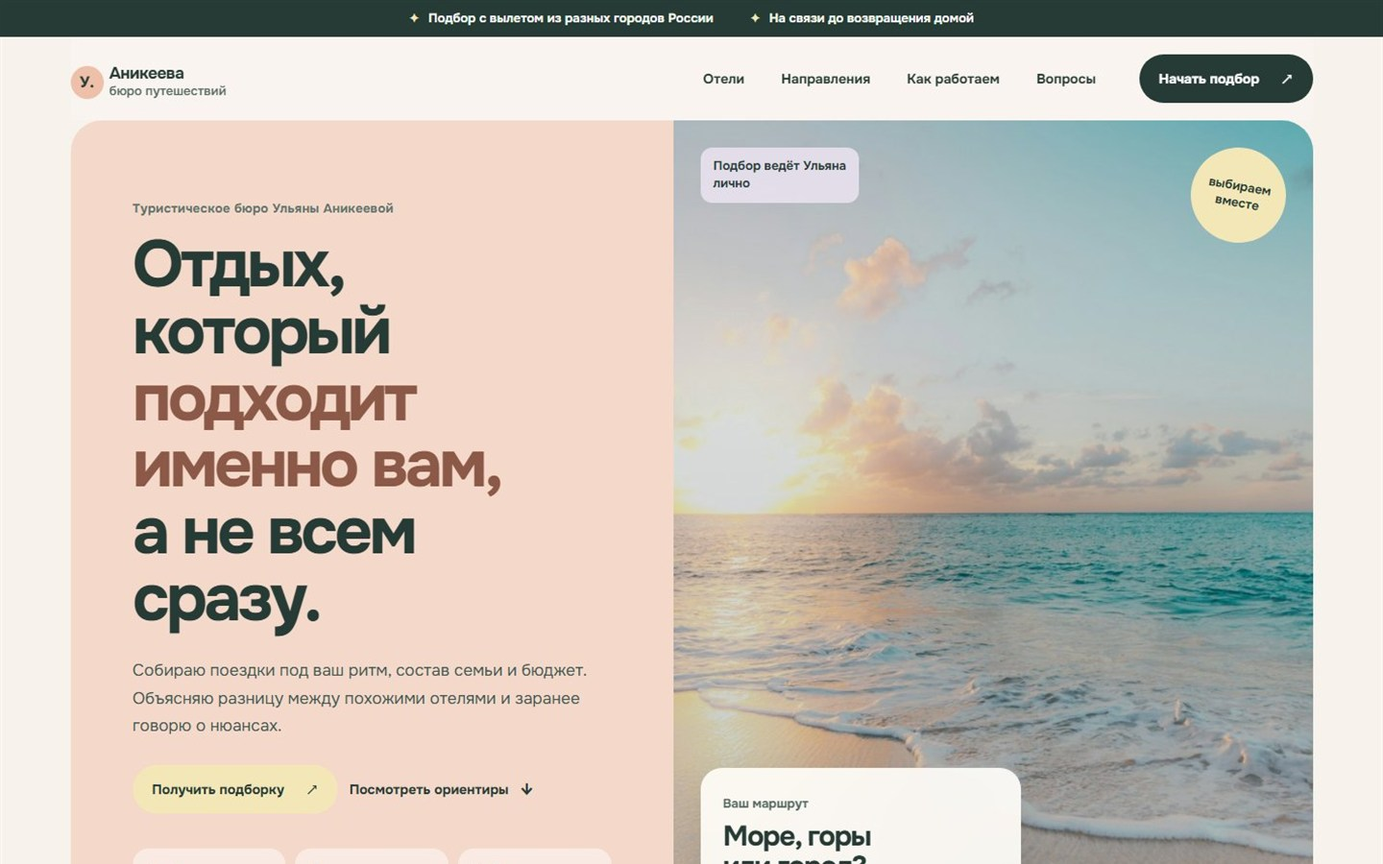
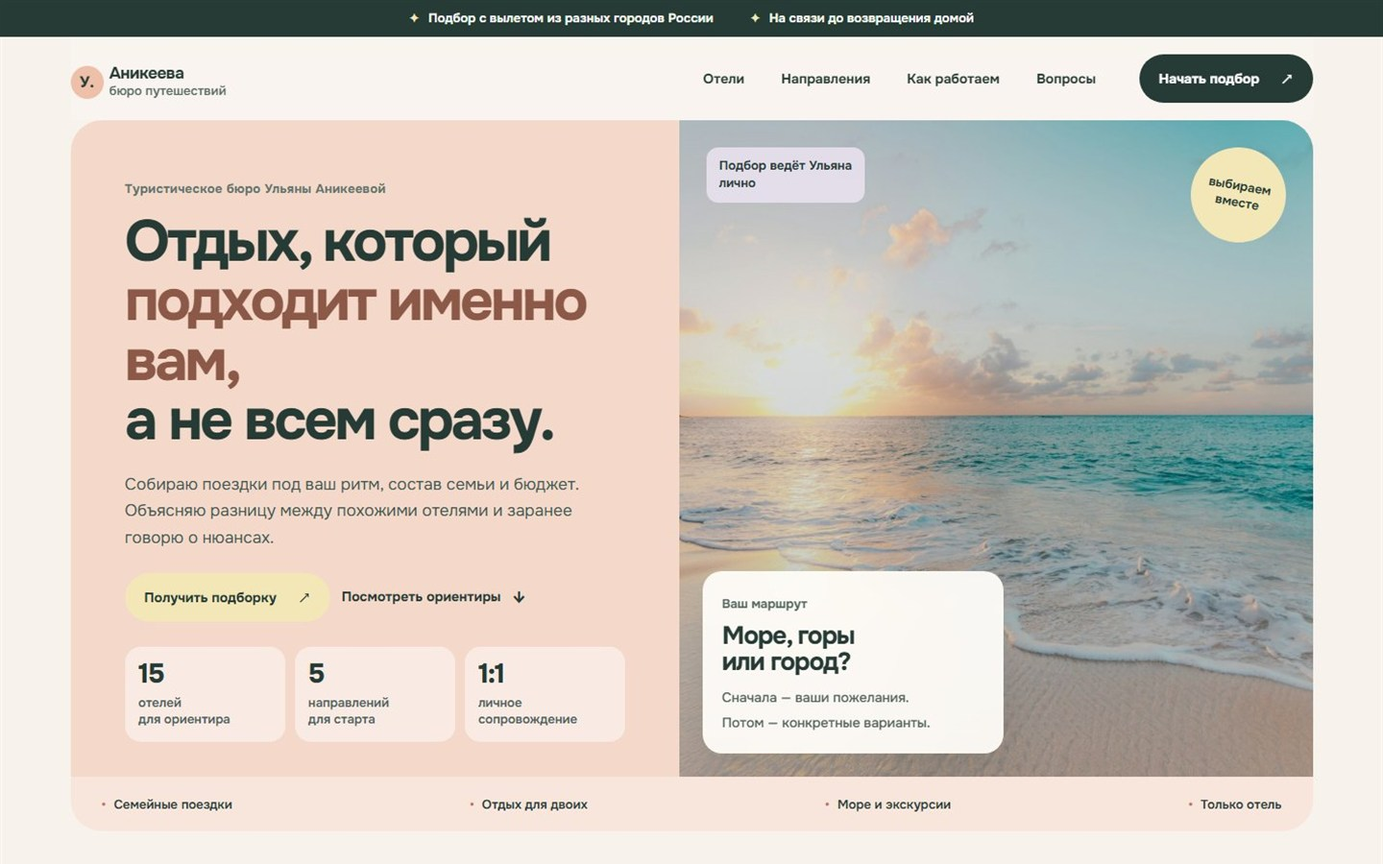
Tighten HotTour composition and card alignment

diff --git a/projects/hottour/readability.css b/projects/hottour/readability.css
@@ -60,50 +60,52 @@ body {
 .text-link { min-height: 48px; font-size: 14px; font-weight: 700; }
 .eyebrow { margin-bottom: 15px; font: 700 13px/1.4 var(--sans); letter-spacing: .02em; text-transform: none; }
 
-.hero { grid-template-columns: 1fr 1.06fr; grid-template-rows: auto 64px; border-radius: 32px; }
-.hero-copy { padding: clamp(54px, 6vw, 82px) clamp(34px, 4.5vw, 64px) 46px; }
-.hero h1 { max-width: 630px; font: 720 clamp(48px, 4.9vw, 68px)/1.01 var(--sans); letter-spacing: -.052em; }
+.hero { grid-template-columns: .98fr 1.02fr; grid-template-rows: auto 56px; border-radius: 32px; }
+.hero-copy { padding: clamp(44px, 4.8vw, 62px) clamp(32px, 4vw, 56px) 36px; }
+.hero h1 { max-width: 610px; font: 720 clamp(44px, 4.35vw, 60px)/1.02 var(--sans); letter-spacing: -.05em; }
 .hero h1 i { color: #8c5948; font-style: normal; font-weight: inherit; }
-.hero-lead { max-width: 560px; margin: 26px 0; color: #405650; font-size: 17px; line-height: 1.67; }
+.hero-lead { max-width: 560px; margin: 22px 0; color: #405650; font-size: 17px; line-height: 1.62; }
 .hero-actions { gap: 12px; }
-.hero-facts { max-width: 600px; margin-top: 36px; padding: 0; border: 0; gap: 10px; }
-.hero-facts div { min-width: 0; min-height: 94px; padding: 15px; border-radius: 16px; display: flex; flex-direction: column; gap: 9px; background: rgba(255,255,255,.48); }
+.hero-facts { max-width: 600px; margin-top: 26px; padding: 0; border: 0; gap: 10px; }
+.hero-facts div { min-width: 0; min-height: 82px; padding: 14px; border-radius: 16px; display: flex; flex-direction: column; gap: 7px; background: rgba(255,255,255,.48); }
 .hero-facts dt { font: 760 28px/1 var(--sans); letter-spacing: -.04em; }
 .hero-facts dd { margin: 0; color: #4d615b; font: 600 13px/1.38 var(--sans); text-transform: none; }
-.hero-media { min-height: 610px; }
-.hero-media figcaption { left: 28px; bottom: 28px; width: min(330px, calc(100% - 56px)); padding: 23px; border: 0; border-radius: 22px; background: rgba(255,253,249,.92); box-shadow: 0 18px 42px rgba(43,61,55,.18); }
+.hero-media { min-height: 0; }
+.hero-media figcaption { left: 24px; bottom: 24px; width: min(310px, calc(100% - 48px)); padding: 20px; border: 0; border-radius: 20px; background: rgba(255,253,249,.94); box-shadow: 0 18px 42px rgba(43,61,55,.18); }
 .hero-media figcaption span { font: 650 13px var(--sans); letter-spacing: 0; text-transform: none; }
-.hero-media figcaption b { margin: 8px 0 13px; font: 720 29px/1.05 var(--sans); letter-spacing: -.04em; }
+.hero-media figcaption b { margin: 7px 0 10px; font: 720 26px/1.05 var(--sans); letter-spacing: -.04em; }
 .hero-media figcaption small { font: 500 14px/1.55 var(--sans); }
 .hero-stamp { top: 28px; right: 28px; width: 98px; height: 98px; font: 650 13px/1.3 var(--sans); }
 .hero-note { top: 28px; left: 28px; padding: 10px 13px; font: 650 13px/1.42 var(--sans); text-transform: none; }
-.hero-foot { padding: 0 38px; border: 0; background: rgba(255,255,255,.34); font: 600 13px var(--sans); letter-spacing: 0; text-transform: none; }
+.hero-foot { padding: 0 32px; border: 0; background: rgba(255,255,255,.34); font: 600 13px var(--sans); letter-spacing: 0; text-transform: none; }
 
-.intro { padding: 82px 0 46px; grid-template-columns: minmax(170px,.55fr) 1.7fr; gap: clamp(34px,6vw,86px); }
+.intro { padding: 64px 0 34px; grid-template-columns: 1fr; gap: 16px; }
+.intro > div:first-child { display: flex; align-items: center; gap: 12px; }
+.intro > div:first-child .eyebrow { margin: 0; }
 .intro-index { font: 650 13px var(--sans); }
-.intro-copy > p:first-child { max-width: 920px; font: 650 clamp(29px,3vw,43px)/1.2 var(--sans); letter-spacing: -.04em; }
+.intro-copy > p:first-child { max-width: 1040px; font: 650 clamp(28px,2.75vw,40px)/1.2 var(--sans); letter-spacing: -.04em; }
 .intro-copy i { color: #8c5948; font-style: normal; font-weight: inherit; }
-.intro-note { max-width: 720px; margin-top: 24px; padding: 18px 20px; border: 0; border-radius: 16px; color: var(--muted); background: #f3dfd4; font-size: 15px; line-height: 1.65; }
+.intro-note { max-width: 820px; margin-top: 20px; padding: 17px 19px; border: 0; border-radius: 16px; color: var(--muted); background: #f3dfd4; font-size: 15px; line-height: 1.6; }
 
 .travel-moods { gap: 14px; }
-.mood-card { min-height: 0; padding: 24px; border-radius: 24px; display: grid; grid-template-rows: auto auto auto; align-content: start; gap: 14px; box-shadow: var(--shadow-soft); }
+.mood-card { min-height: 0; padding: 22px; border-radius: 22px; display: grid; grid-template-rows: auto minmax(58px,auto) auto; align-content: start; gap: 12px; box-shadow: var(--shadow-soft); }
 .mood-card > span { font: 700 13px var(--sans); }
-.mood-card h3 { margin: 10px 0 0; font: 720 25px/1.08 var(--sans); letter-spacing: -.035em; }
+.mood-card h3 { margin: 8px 0 0; font: 720 24px/1.08 var(--sans); letter-spacing: -.035em; }
 .mood-card p { margin: 0; color: #4c615a; font-size: 15px; line-height: 1.6; }
 
-.directions { padding: 84px 0 94px; }
+.directions { padding: 68px 0 76px; }
 .section-heading { margin-bottom: 34px; align-items: flex-end; }
 .section-heading h2, .method h2, .faq h2, .contact h2 { font: 720 clamp(38px,4.2vw,58px)/1.04 var(--sans); letter-spacing: -.048em; }
 .section-heading h2 i, .method h2 i, .faq h2 i, .contact h2 i { color: #8c5948; font-style: normal; font-weight: inherit; }
 .section-aside { max-width: 390px; font-size: 15px; line-height: 1.65; }
 .direction-grid { grid-template-columns: repeat(5,1fr); gap: 13px; border: 0; }
-.direction-grid article { min-height: 0; padding: 22px; border: 0; border-radius: 22px; display: grid; grid-template-rows: auto auto auto; align-content: start; gap: 14px; background: var(--paper-2); box-shadow: var(--shadow-soft); }
+.direction-grid article { min-height: 0; padding: 20px; border: 0; border-radius: 20px; display: grid; grid-template-rows: auto minmax(50px,auto) auto; align-content: start; gap: 10px; background: var(--paper-2); box-shadow: var(--shadow-soft); }
 .direction-grid article:nth-child(2) { background: var(--blue); }
 .direction-grid article:nth-child(3) { background: var(--lilac); }
 .direction-grid article:nth-child(4) { background: var(--sage); }
 .direction-grid article:nth-child(5) { background: var(--butter); }
 .direction-grid span { font: 700 13px var(--sans); letter-spacing: 0; text-transform: none; }
-.direction-grid b { margin: 10px 0 0; font: 720 21px/1.14 var(--sans); letter-spacing: -.032em; }
+.direction-grid b { margin: 8px 0 0; font: 720 21px/1.14 var(--sans); letter-spacing: -.032em; }
 .direction-grid small { color: #566a63; font: 550 14px/1.5 var(--sans); }
 
 .catalog { padding-bottom: 94px; }
@@ -132,44 +134,51 @@ body {
 .catalog-note b { font: 700 14px var(--sans); text-transform: none; }
 .catalog-note p { max-width: 900px; font-size: 15px; line-height: 1.65; }
 
-.method { padding: 88px 0; }
-.method-grid { grid-template-columns: .82fr 1.18fr; gap: clamp(44px,6vw,84px); }
-.method-intro > p:not(.eyebrow) { max-width: 520px; margin: 24px 0; font-size: 16px; line-height: 1.67; }
-.method ol { display: grid; grid-template-columns: 1fr 1fr; gap: 13px; }
-.method li, .method li + li { min-height: 0; padding: 21px; border: 0; border-radius: 22px; display: grid; grid-template-columns: 44px 1fr; align-content: start; gap: 14px; background: rgba(255,255,255,.54); }
+.method { padding: 72px 0; }
+.method-grid { grid-template-columns: 1fr; gap: 30px; }
+.method-intro { display: grid; grid-template-columns: minmax(0,1fr) minmax(320px,440px); align-items: end; gap: 12px 48px; }
+.method-intro .eyebrow { grid-column: 1 / -1; margin-bottom: 0; }
+.method-intro h2 { grid-row: 2 / 4; font-size: clamp(38px,3.7vw,50px); }
+.method-intro > p:not(.eyebrow) { grid-column: 2; grid-row: 2; max-width: 440px; margin: 0; font-size: 16px; line-height: 1.62; }
+.method-intro .button { grid-column: 2; grid-row: 3; justify-self: start; }
+.method ol { display: grid; grid-template-columns: repeat(4,1fr); gap: 13px; }
+.method li, .method li + li { min-height: 0; padding: 19px; border: 0; border-radius: 20px; display: grid; grid-template-columns: 44px 1fr; align-content: start; gap: 13px; background: rgba(255,255,255,.54); }
 .method li > span { width: 42px; height: 42px; display: grid; place-items: center; border-radius: 13px; color: var(--ink); background: var(--paper-2); font: 720 13px var(--sans); }
-.method li b { font-size: 18px; line-height: 1.28; letter-spacing: -.025em; }
+.method li b { min-height: 46px; display: block; font-size: 18px; line-height: 1.28; letter-spacing: -.025em; }
 .method li p { margin-top: 10px; color: #53675f; font-size: 14px; line-height: 1.6; }
 
-.care { padding: 92px 0; }
+.care { padding: 76px 0; }
 .care-grid { grid-template-columns: repeat(3,1fr); gap: 14px; border: 0; }
-.care-grid article { min-height: 0; padding: 23px; border: 0; border-radius: 22px; background: var(--paper-2); box-shadow: var(--shadow-soft); }
+.care-grid article { min-height: 0; padding: 22px; border: 0; border-radius: 22px; display: grid; grid-template-rows: 42px minmax(48px,auto) auto; align-content: start; gap: 10px; background: var(--paper-2); box-shadow: var(--shadow-soft); }
 .care-grid article:nth-child(2), .care-grid article:nth-child(5) { background: #f4e4db; }
 .care-grid article:nth-child(3), .care-grid article:nth-child(6) { background: #e7eff1; }
 .care-grid article > span { width: 42px; height: 42px; font: 720 13px var(--sans); }
-.care-grid h3 { margin: 29px 0 9px; font: 730 20px/1.2 var(--sans); letter-spacing: -.03em; }
+.care-grid h3 { margin: 8px 0 0; font: 730 20px/1.2 var(--sans); letter-spacing: -.03em; }
 .care-grid p { max-width: 340px; color: #50635d; font-size: 15px; line-height: 1.6; }
 
-.journal { padding-bottom: 92px; }
-.journal-grid { grid-template-columns: 1.25fr 1fr 1fr; grid-template-rows: auto; gap: 14px; }
-.journal-grid article { min-height: 0; padding: 26px; border-radius: 24px; }
-.journal-grid .journal-main { grid-row: auto; min-height: 0; padding: 30px; }
+.journal { padding-bottom: 72px; }
+.journal-grid { grid-template-columns: repeat(3,1fr); grid-template-rows: auto; gap: 14px; }
+.journal-grid article { min-height: 0; padding: 24px; border-radius: 22px; display: grid; grid-template-rows: auto minmax(72px,auto) auto; align-content: start; gap: 12px; }
+.journal-grid .journal-main { grid-row: auto; min-height: 0; padding: 24px; }
 .journal-grid span { font: 700 13px var(--sans); text-transform: none; }
-.journal-grid h3 { margin: 28px 0 13px; font: 720 24px/1.16 var(--sans); letter-spacing: -.035em; }
-.journal-grid .journal-main h3 { font-size: clamp(30px,2.7vw,39px); }
+.journal-grid h3 { margin: 16px 0 0; font: 720 27px/1.16 var(--sans); letter-spacing: -.035em; }
+.journal-grid .journal-main h3 { font-size: 27px; }
 .journal-grid p { color: #4d615a; font-size: 15px; line-height: 1.62; }
 
-.faq { padding: 88px 0; border: 0; gap: clamp(40px,6vw,86px); }
-.faq-list { border: 0; display: grid; gap: 10px; }
+.faq { padding: 72px 0; border: 0; grid-template-columns: 1fr; gap: 28px; }
+.faq-title h2 { max-width: 900px; }
+.faq-list { border: 0; display: grid; grid-template-columns: 1fr 1fr; align-items: start; gap: 10px; }
+.faq-list details:last-child { grid-column: 1 / -1; }
 .faq details { border: 0; border-radius: 18px; background: var(--paper-2); box-shadow: var(--shadow-soft); overflow: hidden; }
 .faq summary { min-height: 74px; padding: 18px 20px; font-size: 16px; line-height: 1.35; }
 .faq summary span { width: 36px; height: 36px; display: grid; place-items: center; border-radius: 50%; background: var(--surface); font-size: 22px; }
 .faq details p { max-width: 680px; margin: -2px 0 0; padding: 0 20px 22px; font-size: 15px; line-height: 1.65; }
 
-.contact { margin-bottom: 72px; padding: clamp(44px,5vw,66px); gap: 48px; }
+.contact { margin-bottom: 52px; padding: clamp(38px,4vw,52px); grid-template-columns: 1fr 1fr; align-items: center; gap: 32px; }
+.contact h2 { font-size: clamp(36px,3.7vw,50px); }
 .contact-side > p { max-width: 460px; margin-bottom: 22px; font-size: 16px; line-height: 1.65; }
-.footer { min-height: 0; margin-bottom: 24px; padding: 28px; border: 0; border-radius: 24px; background: var(--surface); }
-.footer-links { gap: 5px; }
+.footer { min-height: 0; margin-bottom: 24px; padding: 22px 24px; border: 0; border-radius: 24px; align-items: center; gap: 24px; background: var(--surface); }
+.footer-links { gap: 2px; }
 .footer-note p { font: 500 14px/1.6 var(--sans); }
 .shortlist-dock { border: 0; font: 650 14px var(--sans); }
 .shortlist-dock button { font: 700 14px var(--sans); }
@@ -195,6 +204,7 @@ body {
   .direction-grid { grid-template-columns: repeat(3,1fr); }
   .trip-grid { grid-template-columns: repeat(2,minmax(0,1fr)); }
   .care-grid { grid-template-columns: repeat(2,1fr); }
+  .method ol { grid-template-columns: 1fr 1fr; }
 }
 
 @media (max-width: 820px) {
@@ -203,14 +213,16 @@ body {
   .header nav { padding: 10px; border: 0; background: rgba(255,253,249,.98); }
   .header nav a { min-height: 50px; padding: 14px; border: 0; border-radius: 13px; background: var(--surface); font-size: 15px; }
   .hero { grid-template-columns: 1fr; grid-template-rows: auto auto auto; }
-  .hero-copy { padding: 52px 38px 42px; }
-  .hero h1 { max-width: 720px; font-size: clamp(45px,8vw,60px); }
-  .hero-media { min-height: 500px; }
+  .hero-copy { padding: 44px 32px 34px; }
+  .hero h1 { max-width: 720px; font-size: clamp(43px,7.2vw,54px); }
+  .hero-media { height: 380px; min-height: 0; }
   .hero-foot { grid-column: 1; padding: 17px 30px; flex-wrap: wrap; justify-content: flex-start; }
-  .intro { grid-template-columns: 1fr; gap: 24px; padding-top: 70px; }
+  .intro { grid-template-columns: 1fr; gap: 16px; padding-top: 56px; }
   .section-heading { align-items: flex-start; }
   .section-aside { max-width: 620px; }
-  .method-grid { grid-template-columns: 1fr; gap: 42px; }
+  .method-grid { grid-template-columns: 1fr; gap: 28px; }
+  .method-intro { display: block; }
+  .method-intro > p:not(.eyebrow) { margin: 18px 0; }
   .journal-grid { grid-template-columns: 1fr 1fr; }
   .journal-grid .journal-main { grid-column: 1 / -1; }
   .contact { grid-template-columns: 1fr; gap: 30px; }
@@ -229,9 +241,9 @@ body {
   .hero-actions { align-items: stretch; flex-direction: column; }
   .hero-actions :is(.button,.text-link) { width: 100%; justify-content: space-between; }
   .hero-facts { margin-top: 28px; grid-template-columns: 1fr 1fr; }
-  .hero-facts div { min-height: 102px; }
+  .hero-facts div { min-height: 0; }
   .hero-facts div:last-child { grid-column: 1 / -1; }
-  .hero-media { min-height: 410px; }
+  .hero-media { height: 320px; min-height: 0; }
   .hero-media figcaption { left: 16px; bottom: 16px; width: calc(100% - 32px); padding: 18px; }
   .hero-media figcaption b { font-size: 25px; }
   .hero-stamp { top: 16px; right: 16px; width: 80px; height: 80px; }
@@ -240,13 +252,13 @@ body {
   .intro { padding: 62px 0 38px; }
   .intro-copy > p:first-child { font-size: 29px; }
   .travel-moods { grid-template-columns: 1fr; }
-  .mood-card { min-height: 0; padding: 22px; }
+  .mood-card { min-height: 0; padding: 22px; grid-template-rows: auto auto auto; }
   .directions { padding: 68px 0 74px; }
   .section-heading { gap: 20px; margin-bottom: 26px; }
   .section-heading h2, .method h2, .faq h2, .contact h2 { font-size: 35px; }
   .section-heading .button { width: 100%; }
   .direction-grid { grid-template-columns: 1fr; }
-  .direction-grid article { min-height: 0; }
+  .direction-grid article { min-height: 0; grid-template-rows: auto auto auto; }
   .catalog { padding-bottom: 72px; }
   .catalog-toolbar { margin-inline: 0; padding: 11px; overflow: hidden; }
   .filters { width: calc(100% + 11px); padding: 1px 11px 6px 0; }
@@ -263,15 +275,18 @@ body {
   .method { padding: 70px 0; }
   .method ol { grid-template-columns: 1fr; }
   .method li, .method li + li { min-height: 0; }
+  .method li b { min-height: 0; }
   .care { padding: 72px 0; }
   .care-grid { grid-template-columns: 1fr; }
-  .care-grid article { min-height: 0; }
+  .care-grid article { min-height: 0; grid-template-rows: auto auto auto; }
   .journal { padding-bottom: 72px; }
   .journal-grid { grid-template-columns: 1fr; grid-template-rows: auto; }
   .journal-grid .journal-main { grid-row: auto; grid-column: auto; min-height: 0; padding: 24px; }
-  .journal-grid article { min-height: 0; padding: 22px; }
-  .journal-grid .journal-main h3 { font-size: 31px; }
+  .journal-grid article { min-height: 0; padding: 22px; grid-template-rows: auto auto auto; }
+  .journal-grid .journal-main h3 { font-size: 27px; }
   .faq { padding: 70px 0; }
+  .faq-list { grid-template-columns: 1fr; }
+  .faq-list details:last-child { grid-column: auto; }
   .faq summary { min-height: 72px; font-size: 16px; }
   .faq details p { font-size: 15px; }
   .contact { width: calc(100% - 24px); margin-bottom: 54px; padding: 38px 21px; }
@@ -287,7 +302,7 @@ body {
   .hero h1 { font-size: 35px; }
   .hero-facts { grid-template-columns: 1fr; }
   .hero-facts div:last-child { grid-column: auto; display: flex; }
-  .hero-media { min-height: 390px; }
+  .hero-media { height: 300px; min-height: 0; }
   .hero-foot { grid-template-columns: 1fr; }
   .shortlist-dock, .shortlist-dock button { font-size: 13px; }
 }

diff --git a/projects/hottour/index.html b/projects/hottour/index.html
@@ -17,7 +17,7 @@
     <link rel="preload" href="media/fonts/Onest-Latin.woff2" as="font" type="font/woff2" crossorigin />
     <link rel="preload" as="image" href="media/hero-sea.jpg" />
     <link rel="stylesheet" href="redesign.css?v=20260804" />
-    <link rel="stylesheet" href="readability.css?v=20260804b" />
+    <link rel="stylesheet" href="readability.css?v=20260804c" />
     <link rel="stylesheet" href="../demo-shell.css" />
   </head>
   <body data-portfolio-demo="safe">
@@ -64,8 +64,8 @@
       <section class="intro shell reveal">
         <div><p class="eyebrow">Для первого разговора</p><span class="intro-index">01 / 06</span></div>
         <div class="intro-copy">
-          <p>Каталог ниже — <i>точка старта для разговора</i>, а не готовая подборка для всех. Названия и основные факты можно сверить на официальных сайтах отелей.</p>
-          <p class="intro-note">Фото в карточках передают атмосферу направления. Финальные цены, рейсы, категории номеров и условия считаются под конкретные даты.</p>
+          <p>Каталог ниже нужен для первого сравнения. Названия отелей и основные факты можно проверить на их официальных сайтах.</p>
+          <p class="intro-note">Фотографии показывают направление, а не конкретный отель. Цену, рейс и номер уточняем под даты поездки.</p>
         </div>
       </section>
 
@@ -139,14 +139,14 @@
       <section class="journal shell" id="journal">
         <div class="section-heading reveal"><div><p class="eyebrow">Полезно до бронирования</p><h2>Три проверки,<br /><i>которые экономят время.</i></h2></div><a class="button button-dark" href="https://t.me/uliana_anikeeva" target="_blank" rel="noreferrer">Telegram Ульяны <span>↗</span></a></div>
         <div class="journal-grid reveal">
-          <article class="journal-main"><span>Отзывы</span><h3>Один резкий комментарий ещё ничего не говорит об отеле</h3><p>Полезнее искать повторяющиеся факты, сверять сезон поездки и понимать, чего ожидал автор. Средняя оценка без этого мало что объясняет.</p></article>
+          <article class="journal-main"><span>Отзывы</span><h3>Один отзыв ещё ничего не говорит об отеле</h3><p>Ищу повторяющиеся факты и смотрю, в какой сезон ездил автор. Одна средняя оценка без контекста мало что объясняет.</p></article>
           <article><span>Пляж с детьми</span><h3>Семь вопросов важнее слова «песчаный»</h3><p>Заход, волна, тень, расстояние, обувь, понтон и глубина.</p></article>
           <article><span>Категория отеля</span><h3>Пять звёзд не обещают одинаковый отдых</h3><p>Сравниваем концепцию, территорию, состояние номеров и работу сервиса.</p></article>
         </div>
       </section>
 
       <section class="faq shell" id="faq">
-        <div class="faq-title reveal"><p class="eyebrow">Частые вопросы</p><h2>До заявки<br /><i>можно уточнить всё.</i></h2></div>
+        <div class="faq-title reveal"><p class="eyebrow">Частые вопросы</p><h2>Что можно уточнить <i>до заявки.</i></h2></div>
         <div class="faq-list reveal">
           <details><summary>Можно вылететь не из Челябинска?<span>+</span></summary><p>Да. Подбор можно сделать из любого доступного города России — сравним удобство маршрута и итоговую стоимость.</p></details>
           <details><summary>Цены в каталоге актуальные?<span>+</span></summary><p>В каталоге указаны конкретные отели, но не фиксированные пакеты. Точная цена появляется только после проверки дат, рейса, состава и категории номера.</p></details>

diff --git a/index.html b/index.html
@@ -25,7 +25,7 @@
     <link rel="preload" href="assets/fonts/Onest-Cyrillic.woff2" as="font" type="font/woff2" crossorigin />
     <link rel="preload" href="assets/fonts/Onest-Latin.woff2" as="font" type="font/woff2" crossorigin />
     <link rel="preload" as="image" href="assets/course-cover.jpg" />
-    <link rel="preload" as="image" href="assets/hottour-cover.jpg?v=20260804a" />
+    <link rel="preload" as="image" href="assets/hottour-cover.jpg?v=20260804b" />
     <link rel="stylesheet" href="styles.css?v=20260804c" />
   </head>
   <body>
@@ -137,7 +137,7 @@
             <span class="work-card-top"><b>02</b><span>Каталог туров</span></span>
             <strong>HotTour</strong>
             <span class="work-card-copy">Фильтры, избранное и заявка через WhatsApp.</span>
-            <span class="work-card-visual"><img src="assets/hottour-cover.jpg?v=20260804a" alt="" width="1440" height="900" decoding="async" /></span>
+            <span class="work-card-visual"><img src="assets/hottour-cover.jpg?v=20260804b" alt="" width="1440" height="900" decoding="async" /></span>
             <span class="work-card-link">Смотреть кейс <i aria-hidden="true">↓</i></span>
           </a>
           <a class="work-card work-card-second-look" href="#second-look">
@@ -207,7 +207,7 @@
             <div class="project-scene project-scene-hottour" data-reveal>
               <div class="project-visual project-window">
                 <div class="window-bar"><span></span><span></span><span></span><b>туризм / широкий экран</b></div>
-                <img src="assets/hottour-cover.jpg?v=20260804a" alt="Главная страница сайта туристического бюро Ульяны Аникеевой" width="1440" height="900" decoding="async" />
+                <img src="assets/hottour-cover.jpg?v=20260804b" alt="Главная страница сайта туристического бюро Ульяны Аникеевой" width="1440" height="900" decoding="async" />
               </div>
               <div class="scene-notes" aria-label="Основные функции HotTour">
                 <div><span>Выбор</span><b>Фильтры</b><p>Каталог быстро сужается до подходящих вариантов.</p></div>

diff --git a/AUDIT.md b/AUDIT.md
@@ -31,6 +31,7 @@
 - HotTour переведён на локальный Onest с текстом 13–17 px; моноширинные подписи и декоративный serif удалены;
 - направления, этапы, детали и FAQ HotTour перестроены из тонких таблиц в карточки с заливками, а содержимое отелей выровнено по устойчивым строкам;
 - у карточек HotTour убраны искусственные минимальные высоты и разнесение текста по краям; блок «Три проверки» собран в одну компактную строку без пустой высокой колонки;
+- вступление, этапы, FAQ, контакт и подвал HotTour выровнены по содержанию; служебные подписи больше не отрываются от текста, а однотипные строки карточек начинаются на одной высоте;
 - Second Look переведён на локальный Onest: первый экран и заголовки уменьшены, подпись раздела больше не стоит отдельной колонкой, карточки правил не растягивают содержание к нижнему краю;
 - минимальный видимый текст курса и HotTour поднят до 12 px;
 - активные зоны компактной навигации курса увеличены до 44 px;
